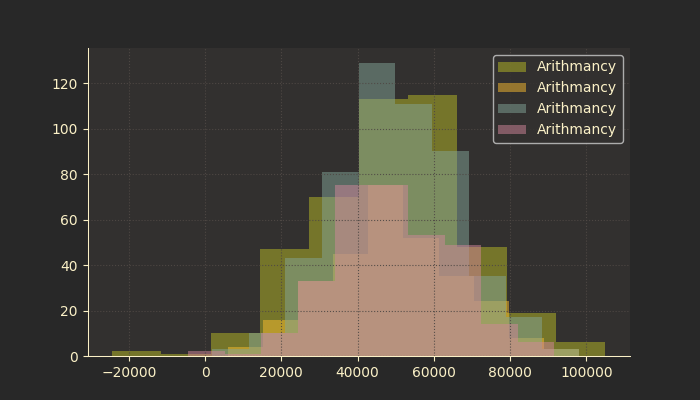
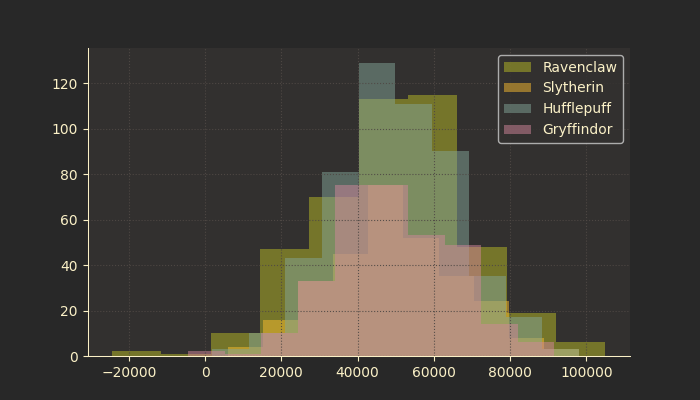
use house name for figure
split houses then group by course
image reflects new changes of labels

Changed region(s): [[0.75, 0.15, 0.9, 0.36], [0.69, 0.15, 0.72, 0.36]]

diff --git a/scatter.py b/scatter.py
@@ -1,8 +1,6 @@
 #!/usr/bin/python3
 
 import sys
-import numpy
-import math
 import pandas
 
 from handle_data import create_dataframe
@@ -17,24 +15,22 @@ if nbr_arg >= 2:
     print(sys.argv[1])
     dataset = create_dataframe(sys.argv[1])
 
-numerical_features = dataset.select_dtypes(include=[numpy.float64])
+numerical_features = dataset.select_dtypes(include=["float64"])
 course_with_houses = pandas.concat([numerical_features, dataset["Hogwarts House"]], axis=1)
 sorted = course_with_houses.sort_values("Hogwarts House")
 # print(sorted)
 
+ravenclaw = sorted.loc[sorted["Hogwarts House"] == "Ravenclaw"]
+slytherin = sorted.loc[sorted["Hogwarts House"] == "Slytherin"]
+hufflepuff = sorted.loc[sorted["Hogwarts House"] == "Hufflepuff"]
+gryffindor = sorted.loc[sorted["Hogwarts House"] == "Gryffindor"]
 for label, serie in sorted.items():
     if label != "Hogwarts House":
         pyplot.style.use('gruvbox.mplstyle')
-        # pyplot.style.use('https://github.com/dhaitz/matplotlib-stylesheets/raw/master/pitayasmoothie-dark.mplstyle')
-        ravenclaw = sorted.loc[sorted["Hogwarts House"] == "Ravenclaw",label]
-        slytherin = sorted.loc[sorted["Hogwarts House"] == "Slytherin",label]
-        hufflepuff = sorted.loc[sorted["Hogwarts House"] == "Hufflepuff",label]
-        gryffindor = sorted.loc[sorted["Hogwarts House"] == "Gryffindor",label]
-        # sorted.plot.hist(column=label ,by="Hogwarts House", label=label, sharex=True, sharey=True)
-        pyplot.hist(ravenclaw, alpha=0.5, label=label)
-        pyplot.hist(slytherin, alpha=0.5, label=label)
-        pyplot.hist(hufflepuff, alpha=0.5, label=label)
-        pyplot.hist(gryffindor, alpha=0.5, label=label)
+        pyplot.hist(ravenclaw[label], alpha=0.5, label="Ravenclaw")
+        pyplot.hist(slytherin[label], alpha=0.5, label="Slytherin")
+        pyplot.hist(hufflepuff[label], alpha=0.5, label="Hufflepuff")
+        pyplot.hist(gryffindor[label], alpha=0.5, label="Gryffindor")
     pyplot.legend(loc='best')
 
     # filename = f'ressources/{label}.png'

diff --git a/describe.py b/describe.py
@@ -35,7 +35,7 @@ def print_dataset():
 
 # print_dataset()
 
-numerical_features = dataset.select_dtypes(include=[numpy.float64])
+numerical_features = dataset.select_dtypes(include=["float64"])
 
 def cleanup(dataframe):
     cleaned_series = []
